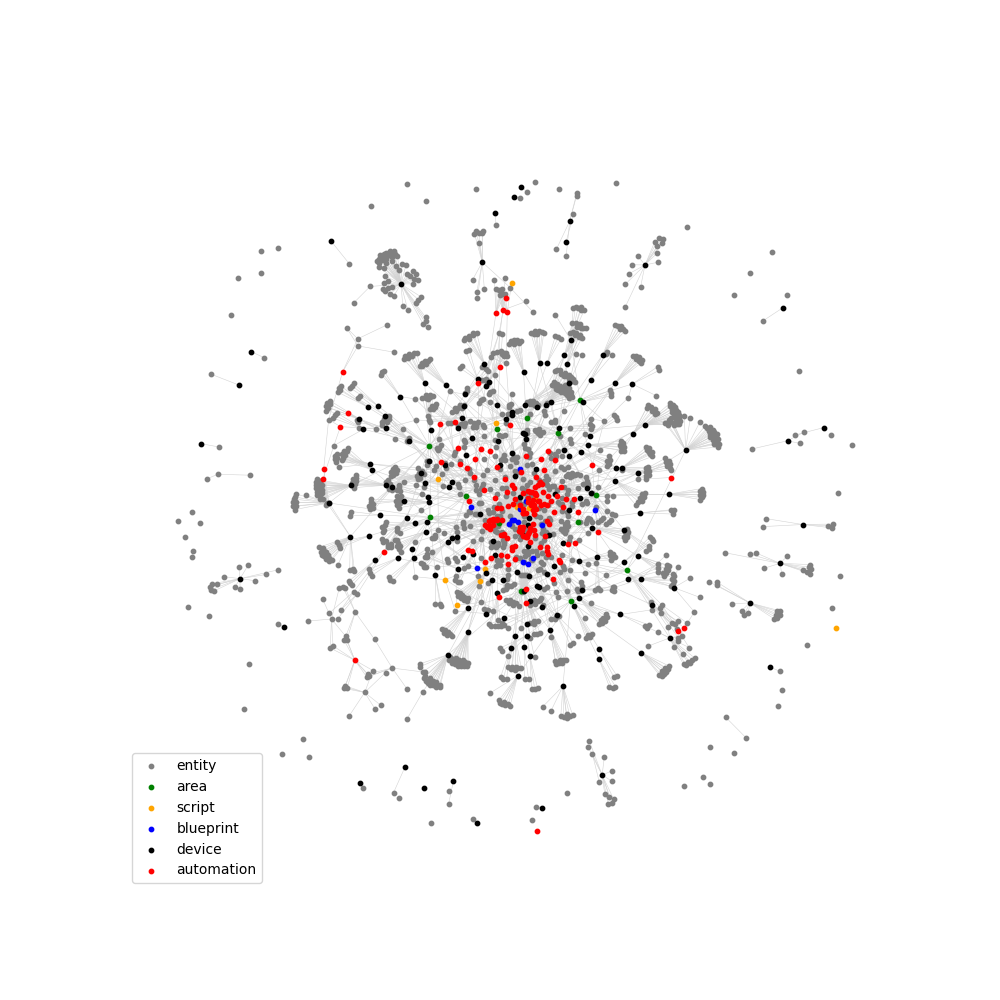
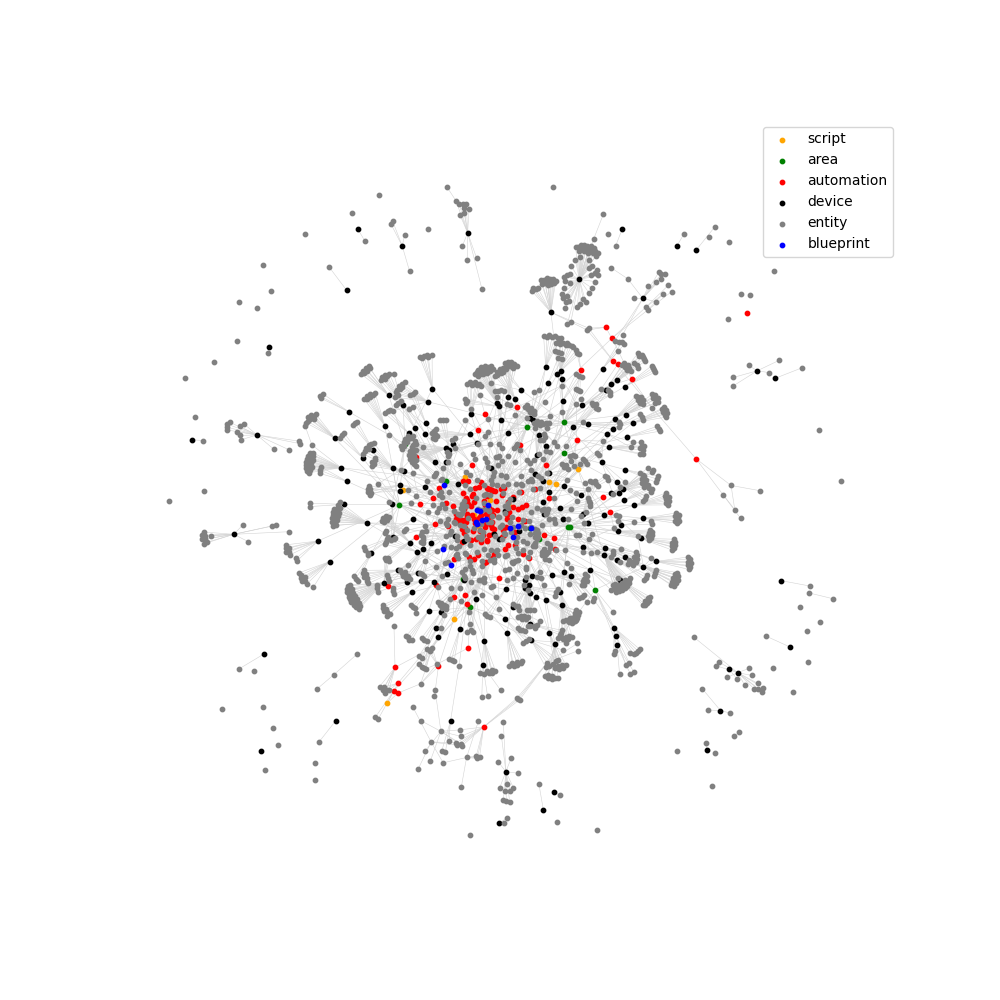
Autocommit on 16/1/ 2024 23:50

diff --git a/pyscript/modules/network_visualisation.py b/pyscript/modules/network_visualisation.py
@@ -1,0 +1,233 @@
+def network_visualisation():
+    """
+    Compile network visualisation of Home Assistant.
+    """
+    
+    import paramiko
+    import os
+    import re
+    import json
+    import yaml
+    import networkx as nx
+    import matplotlib.pyplot as plt
+    
+    def input_constructor(loader: yaml.SafeLoader, node: yaml.nodes.ScalarNode) -> str:
+        '''Helper to handle !input tags in blueprints'''
+        return loader.construct_scalar(node)
+      
+    def get_loader():
+        """Add constructors to PyYAML loader."""
+        loader = yaml.Loader
+        loader.add_constructor("!input", input_constructor)
+        loader.add_constructor("!secret", input_constructor)
+        return loader
+      
+    def traverse(obj, output_list):
+        '''Helper function to find all entity_ids in any arbitrary YAML structure'''
+        if type(obj) == str:
+            for entity_id in re.findall(entity_id_pattern, obj):
+                output_list.append(entity_id) 
+        elif type(obj) in [list, tuple, set]:
+            for i in obj:
+                traverse(i, output_list)
+        elif type(obj) == dict:
+            for key in obj.keys():
+                traverse(obj[key], output_list)
+    
+    def add_edges_without_nonexistent_nodes(g, input_dict):
+        '''Checks that in and out nodes are not the same and exist in g, then adds the edge to g'''
+        for key in input_dict.keys():
+            for i in input_dict[key]:
+                if key != i:
+                    if key in g.nodes and i in g.nodes:
+                        g.add_edge(key, i)
+    
+    # regex matching for entity ids
+    entity_id_pattern = r'[a-z_]+\.[a-zA-z0-9_]+'
+    
+    with open('/config/.storage/core.device_registry') as f:
+        device_registry = json.load(f)
+    with open('/config/.storage/core.entity_registry') as f:
+        entity_registry = json.load(f)
+        
+    devices = [(device['id'], device) for device in device_registry['data']['devices']]
+    entities = [(entity['entity_id'], entity) for entity in entity_registry['data']['entities'] if (entity['hidden_by'] is None and entity['disabled_by'] is None)]
+    areas = [(area, {'type': 'area', 'colour': 'green'}) for area in {device[1]['area_id'] for device in devices if device[1]['area_id'] is not None}]
+    
+    domains = {entity[1]['entity_id'].split('.')[0] for entity in entities}
+    automation_entity_ids = {entity[1]['unique_id']: entity[1]['entity_id'] for entity in entities if entity[1]['entity_id'].split('.')[0] == 'automation'}
+    
+    device_entity_edges = [(entity[1]['entity_id'], entity[1]['device_id']) for entity in entities if entity[1]['device_id'] is not None]
+    area_device_edges = [(device[0],device[1]['area_id']) for device in devices if device[1]['area_id'] is not None]
+    area_entity_edges = [(entity[0], entity[1]['area_id']) for entity in entities if entity[1]['area_id'] is not None]
+    
+    G = nx.Graph()
+
+    G.add_nodes_from(devices)
+    G.add_nodes_from(entities)
+    G.add_nodes_from(areas)
+    
+    G.add_edges_from(device_entity_edges)
+    G.add_edges_from(area_device_edges)
+    G.add_edges_from(area_entity_edges)
+    
+    for node in G.nodes:
+        if 'type' in G.nodes[node].keys():
+            if G.nodes[node]['type'] == 'area':
+                continue
+        elif 'entity_id' in G.nodes[node].keys():
+            if G.nodes[node]['entity_id'].split('.')[0] == 'automation':
+                G.nodes[node]['type'] = 'automation'
+                G.nodes[node]['colour'] = 'red'
+            elif G.nodes[node]['entity_id'].split('.')[0] == 'script':
+                G.nodes[node]['type'] = 'script'
+                G.nodes[node]['colour'] = 'orange'
+            else:
+                G.nodes[node]['type'] = 'entity'
+                G.nodes[node]['colour'] = 'grey'
+        else:
+            G.nodes[node]['type'] = 'device'
+            G.nodes[node]['colour'] = 'black'
+            
+    with open('/config/automations.yaml') as f:
+        automation_list = yaml.load(f, Loader = yaml.Loader)
+    with open('/config/scripts.yaml') as f:
+        script_dict = yaml.load(f, Loader = yaml.Loader)
+        
+    blueprints = {automation['use_blueprint']['path'] for automation in automation_list if 'use_blueprint' in automation.keys()}
+
+    G.add_nodes_from([(blueprint, {'type': 'blueprint', 'colour': 'blue'}) for blueprint in blueprints])
+    G.add_edges_from([(automation_entity_ids[automation['id']], automation['use_blueprint']['path']) for automation in automation_list if 'use_blueprint' in automation.keys()])
+    
+    automation_entities = dict()
+    for automation in automation_list:
+        automation_entities_list = []
+        traverse(automation, automation_entities_list)
+        automation_entities[automation_entity_ids[automation['id']]] = automation_entities_list
+        
+    add_edges_without_nonexistent_nodes(G, automation_entities)
+    
+    script_entities = dict()
+    for script in script_dict.keys():
+        script_entities_list = []
+        traverse(script_dict[script], script_entities_list)
+        script_entities['script.' + script] = script_entities_list
+    
+    add_edges_without_nonexistent_nodes(G, script_entities)
+    
+    with open('/config/aircons.yaml') as f:
+        aircon_list = yaml.load(f, Loader = yaml.Loader)
+    aircon_entity_edges = []
+    for aircon in aircon_list:
+        aircon_entity_edges.extend([(aircon['unique_id'],aircon['heater']), (aircon['unique_id'],aircon['target_sensor'])])
+    G.add_edges_from(aircon_entity_edges)
+    
+    with open('/config/covers.yaml') as f:
+        cover_list = yaml.load(f, Loader = yaml.Loader)
+    cover_entities = dict()
+    for cover in cover_list[0]['covers']:
+        cover_entities_list = []
+        traverse(cover_list[0]['covers'][cover], cover_entities_list)
+        cover_entities['cover.' + cover] = cover_entities_list
+    add_edges_without_nonexistent_nodes(G, cover_entities)
+    
+    with open('/config/fans.yaml') as f:
+        fan_dict = yaml.load(f, Loader = yaml.Loader)[0]['fans']
+    fan_entities = dict()
+    for fan in fan_dict.keys():
+        fan_entities_list = []
+        traverse(fan_dict[fan], fan_entities_list)
+        fan_entities['fan.' + fan] = fan_entities_list
+    add_edges_without_nonexistent_nodes(G, fan_entities)
+    
+    with open('/config/sensors.yaml') as f:
+        sensor_list = yaml.load(f, Loader = get_loader())
+    for sensor in sensor_list:
+        if sensor['platform'] == 'statistics':
+            if sensor['unique_id'] in G.nodes and sensor['entity_id'] in G.nodes:
+                G.add_edge(sensor['unique_id'], sensor['entity_id'])
+    
+    with open('/config/switches.yaml') as f:
+        switch_dict = yaml.load(f, Loader = yaml.Loader)[0]['switches']
+    switch_entities = dict()
+    for switch in switch_dict.keys():
+        switch_entities_list = []
+        traverse(switch_dict[switch], switch_entities_list)
+        switch_entities['switch.' + switch] = switch_entities_list
+    add_edges_without_nonexistent_nodes(G, switch_entities)
+    
+    with open('/config/sensors-template.yaml') as f:
+        template_sensor_list = yaml.load(f, Loader = yaml.Loader)
+    template_sensor_entities = dict()
+    for i in range(len(template_sensor_list)):
+        for key in template_sensor_list[i]:
+            if 'sensor' in key:
+                for j in template_sensor_list[i][key]:
+                    template_sensor_entities_list = []
+                    traverse(j, template_sensor_entities_list)
+                    template_sensor_entities[j['unique_id']] = template_sensor_entities_list
+    add_edges_without_nonexistent_nodes(G, template_sensor_entities)
+    
+    with open('/config/sensors-rest.yaml') as f:
+        rest_sensor_list = yaml.load(f, Loader = get_loader())
+    rest_sensor_entities = dict()
+    for i in range(len(rest_sensor_list)):
+        for key in rest_sensor_list[i]:
+            if 'sensor' in key:
+                for j in rest_sensor_list[i][key]:
+                    rest_sensor_entities_list = []
+                    traverse(j, rest_sensor_entities_list)
+                    rest_sensor_entities[j['unique_id']] = rest_sensor_entities_list
+    add_edges_without_nonexistent_nodes(G, rest_sensor_entities)
+    
+    blueprint_entities = dict()
+    for blueprint_path in [path[0] + '\\' + filename for path in os.walk('\\config\\blueprints') for filename in path[2]]:
+        with open(blueprint_path, encoding = 'utf-8') as f:
+            blueprint_dict = yaml.load(f, Loader = get_loader())
+        
+        for key in blueprint_dict.keys():
+            if key != 'description':
+                blueprint_entities_list = []
+                traverse(blueprint_dict[key], blueprint_entities_list)
+                blueprint_entities['/'.join(blueprint_path.split('\\')[-2:])] = blueprint_entities_list
+    
+    add_edges_without_nonexistent_nodes(G, blueprint_entities)
+    
+    spring_pos = nx.spring_layout(G, k = 0.05)
+    nodetypes = {G.nodes[node]['type'] for node in G.nodes}
+    nodesets = {nodetype: [node for node in G.nodes if G.nodes[node]['type'] == nodetype] for nodetype in nodetypes}
+    node_colours = {G.nodes[node]['type']: G.nodes[node]['colour'] for node in G.nodes}
+    
+    fig01 = plt.figure(figsize = (10,10))
+    for nodeset in nodesets.keys():
+        nx.draw_networkx_nodes(G, pos = spring_pos, 
+                               nodelist = nodesets[nodeset], 
+                               node_size = 10,
+                               node_color = node_colours[nodeset], label = nodeset)
+    nx.draw_networkx_edges(G, pos = spring_pos, width = 0.4, edge_color = 'lightgrey')
+    plt.legend()
+    plt.axis('off')
+    plt.savefig('/config/www/readme_graphics/network_visualisation.png')
+    
+    G_areas_devices_entities = G.subgraph([node for node in G.nodes if G.nodes[node]['type'] in ['device','area','entity']])
+    nx.draw(G_areas_devices_entities, 
+            pos = nx.spring_layout(G_areas_devices_entities, k = 0.05), 
+            edge_color = 'lightgrey', node_size = 10, 
+            node_color = [G_areas_devices_entities.nodes[node]['colour'] for node in G_areas_devices_entities.nodes])
+    plt.savefig('/config/www/readme_graphics/graph_areas_devices_entities.png')
+    
+    largest_connected_component = G_areas_devices_entities.subgraph(max(nx.connected_components(G_areas_devices_entities), key = len))
+    spring_pos = nx.spring_layout(largest_connected_component, k = 0.1)
+    fig02 = plt.figure(figsize = (10,10))
+    plt.subplot(111)
+    nx.draw(largest_connected_component, pos = spring_pos, edge_color = 'lightgrey', node_size = 10, node_color = [largest_connected_component.nodes[node]['colour'] for node in largest_connected_component.nodes])
+    nx.draw_networkx_labels(largest_connected_component, spring_pos, 
+                            {area: area if largest_connected_component.nodes[area]['type'] == 'area' else '' for area in largest_connected_component.nodes})
+    plt.savefig('/config/www/readme_graphics/graph_areas_devices_entities_lcc.png')
+    
+    G_blueprints_automations_scripts = G.subgraph([node for node in G.nodes if G.nodes[node]['type'] in ['automation','script','blueprint']])
+    nx.draw(G_blueprints_automations_scripts, 
+            pos = nx.spring_layout(G_blueprints_automations_scripts, k = 0.17), 
+            edge_color = 'lightgrey', node_size = 20,
+            node_color = [G_blueprints_automations_scripts.nodes[node]['colour'] for node in G_blueprints_automations_scripts.nodes])
+    plt.savefig('/config/www/readme_graphics/graph_blueprints_automations_scripts.png')

diff --git a/pyscript/modules/rain_radar_animation.py b/pyscript/modules/rain_radar_animation.py
@@ -16,4 +16,4 @@ def rain_radar_animation(ms_per_frame = 500, basemap_file = '/config/www/rain_ra
 #        basemap_text.text((0,0), frame.filename[23:31] + ' at ' + frame.filename[31:35], fill = (255,255,255))
         overlaid_frames.append(basemap)
     overlaid_frames[0].save(output_folder + '/rain_radar_animation_' + frames[-1].filename[42:54] + '.gif', format = 'GIF', append_images = overlaid_frames, save_all = True, duration = 200, loop = 0)
-# .  overlaid_frames[0].save(output_folder + '/rain_radar_animation.gif', format = 'GIF', append_images = overlaid_frames, save_all = True, duration = 200, loop = 0)
+#    overlaid_frames[0].save(output_folder + '/rain_radar_animation.gif', format = 'GIF', append_images = overlaid_frames, save_all = True, duration = 200, loop = 0)

diff --git a/pyscript/compile_network_visualisation.py b/pyscript/compile_network_visualisation.py
@@ -1,0 +1,13 @@
+@service
+def compile_network_visualisation():
+    '''
+    Wrapper for module to compile network visualisation.
+    '''
+
+    import sys
+
+    if "/config/pyscript/modules" not in sys.path:
+        sys.path.append("/config/pyscript/modules")
+
+    from network_visualisation import network_visualisation
+    network_visualisation()
